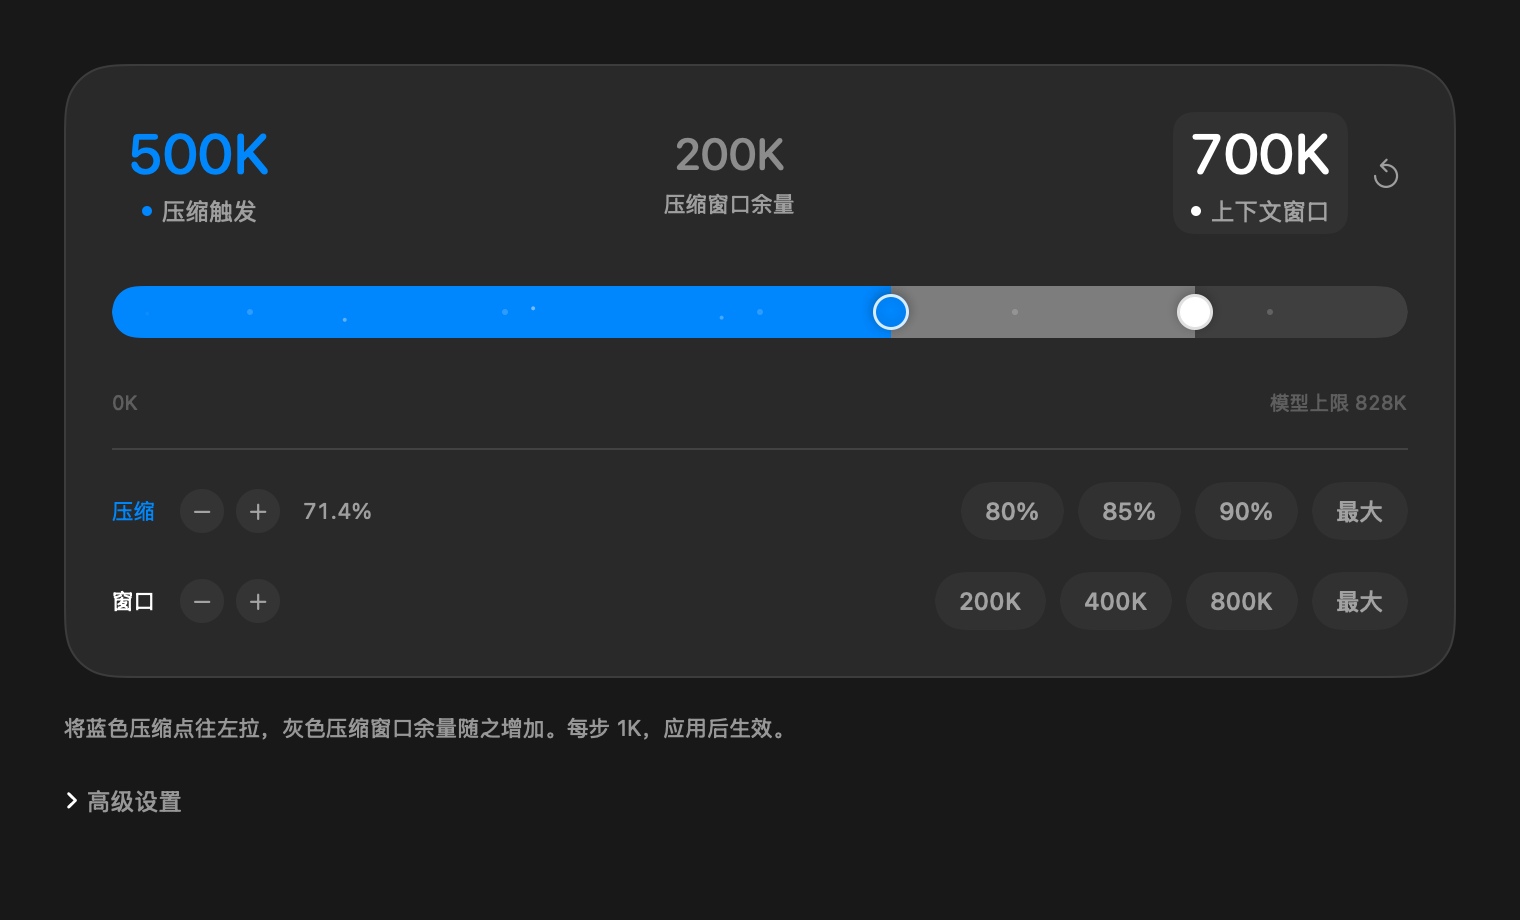
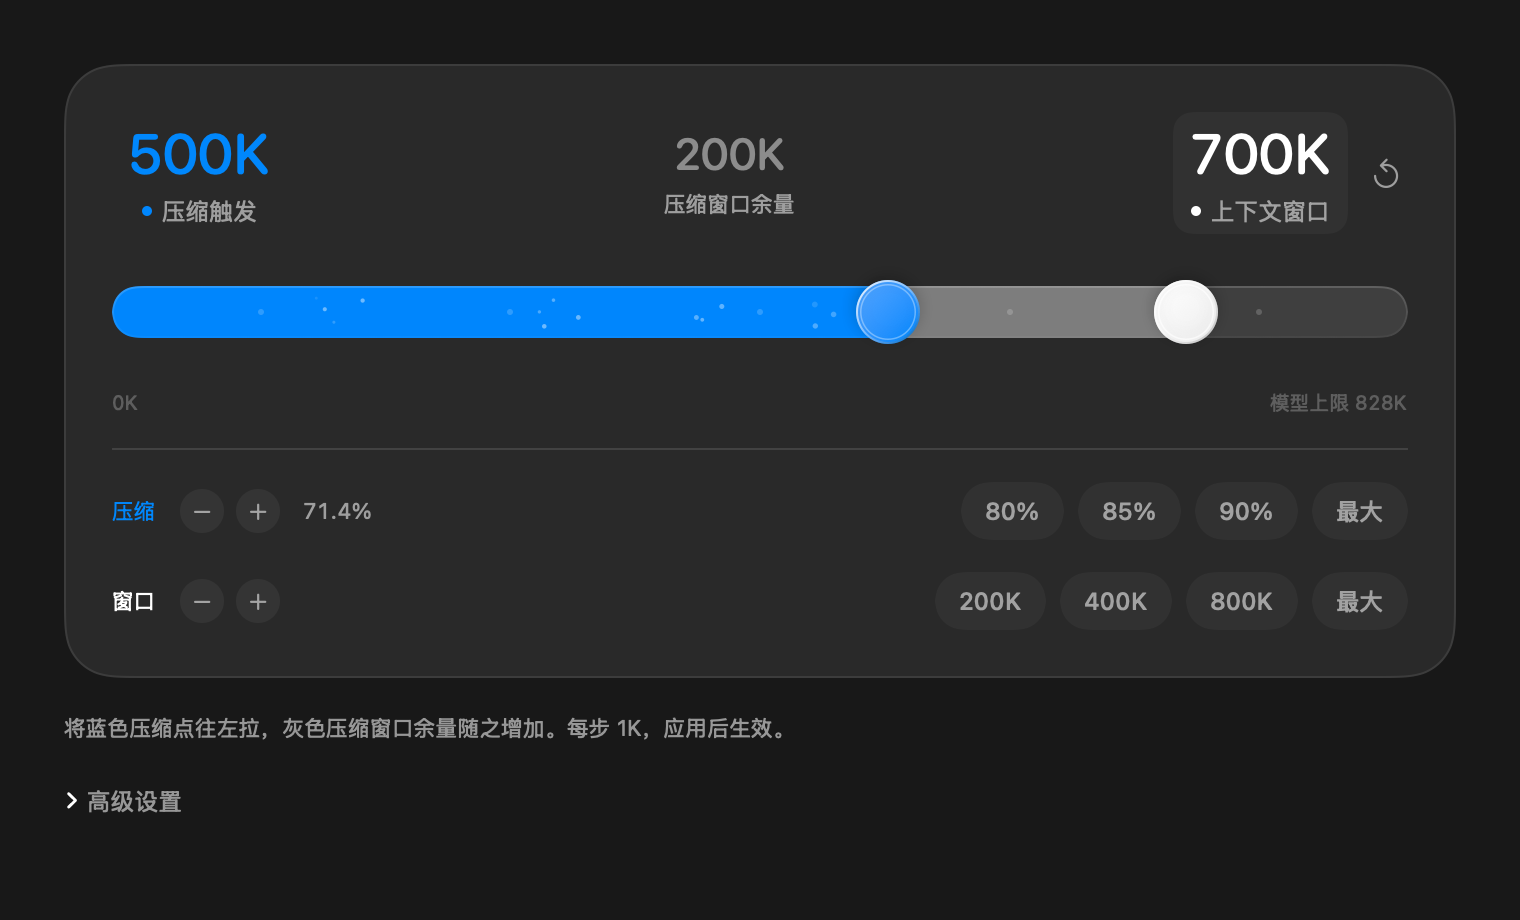
Increase particle density and speed with budget and refine larger slider thumbs

Changed region(s): [[0.7421, 0.3043, 0.8039, 0.3957], [0.5566, 0.3043, 0.6184, 0.3957]]

diff --git a/macos/ContextControl.swift b/macos/ContextControl.swift
@@ -166,6 +166,52 @@ private struct ApplyButtonStyle:ButtonStyle {
 
 private enum BudgetThumb {case compact,window}
 
+/// Integrate motion locally so changing the budget changes speed without
+/// teleporting particles. Additional short streams make the right side denser.
+private struct BudgetFlowParticles:View {
+    let intensity:Double
+    let paused:Bool
+    let reducedMotion:Bool
+    @State private var phase=0.0
+    @State private var speed=0.055
+    var body:some View {
+        Canvas {context,size in
+                guard !reducedMotion else{return}
+                let level=max(0,min(1,intensity))
+                let population=max(2,min(40,size.width/38*(0.55+1.5*level)))
+                for index in 0..<40 {
+                    let visibility=max(0,min(1,population-Double(index)))
+                    guard visibility>0 else{continue}
+                    let seed=(Double(index)*0.61803398875).truncatingRemainder(dividingBy:1)
+                    let start=[0.0,0.25,0.50,0.70][index%4]
+                    let progress=(phase*(0.85+seed*0.3)/(1-start)+seed).truncatingRemainder(dividingBy:1)
+                    let accelerated=(exp(progress*1.25)-1)/(exp(1.25)-1)
+                    let x=(start+(1-start)*accelerated)*size.width
+                    let lane=(Double((index*7)%13)/12-0.5)*size.height*0.58
+                    let y=size.height/2+lane+sin(progress*Double.pi*2+seed*6)*1.5
+                    let diameter=1.4+seed*1.6
+                    let fade=pow(max(0,sin(progress*Double.pi)),0.65)
+                    let opacity=visibility*fade*(0.24+0.32*level)
+                    context.fill(Path(ellipseIn:CGRect(x:x-diameter/2,y:y-diameter/2,width:diameter,height:diameter)),with:.color(.white.opacity(opacity)))
+                }
+            }
+        .onChange(of:intensity,initial:true){_,level in speed=0.055+0.18*max(0,min(1,level))}
+        .task(id:paused){
+            guard !paused else{return}
+            var previousTime=Date.timeIntervalSinceReferenceDate
+            while !Task.isCancelled {
+                do{try await Task.sleep(for:.seconds(1.0/30))}catch{return}
+                guard !Task.isCancelled else{return}
+                let time=Date.timeIntervalSinceReferenceDate
+                phase+=max(0,min(0.1,time-previousTime))*speed
+                previousTime=time
+            }
+        }
+        .allowsHitTesting(false)
+    }
+}
+
+
 /// Both handles share the model-capacity scale. The selected handle stays fixed
 /// during a gesture even when moving the window also moves the linked threshold.
 private struct BudgetRangeSlider:View {
@@ -179,7 +225,7 @@ private struct BudgetRangeSlider:View {
     @FocusState private var focused:Bool
     @State private var active=NSApplication.shared.isActive
     @State private var dragging:BudgetThumb?
-    private let diameter:CGFloat=18
+    private let diameter:CGFloat=32
     var body:some View {
         GeometryReader {geometry in
             let travel=max(1,geometry.size.width-diameter)
@@ -191,21 +237,12 @@ private struct BudgetRangeSlider:View {
                     Rectangle().fill(PanelStyle.blue).frame(width:compactX)
                     Rectangle().fill(PanelStyle.headroom.opacity(0.8)).frame(width:max(0,windowX-compactX)).offset(x:compactX)
                     HStack {ForEach(0..<5){_ in Circle().fill(.white.opacity(0.18)).frame(width:3,height:3).frame(maxWidth:.infinity)}}.padding(.horizontal,diameter/2)
-                    TimelineView(.animation(minimumInterval:1.0/24,paused:reduceMotion || !active || !enabled)){timeline in
-                        Canvas {context,size in
-                            guard !reduceMotion else{return}
-                            let time=timeline.date.timeIntervalSinceReferenceDate
-                            for index in 0..<4 {
-                                let phase=(time/7+Double(index)*0.247).truncatingRemainder(dividingBy:1)
-                                let x=phase*max(1,compactX-8)+4
-                                let y=size.height/2+sin(phase*Double.pi*2+Double(index))*3
-                                context.fill(Path(ellipseIn:CGRect(x:x,y:y,width:2,height:2)),with:.color(.white.opacity(sin(phase*Double.pi)*0.45)))
-                            }
-                        }
-                    }.frame(width:compactX).allowsHitTesting(false)
+                    BudgetFlowParticles(intensity:compact/Double(max(1,maximumWindow)),paused:reduceMotion || !active || !enabled,reducedMotion:reduceMotion)
+                        .frame(width:compactX).clipped()
                 }.frame(height:26).clipShape(Capsule())
-                thumb(.compact,color:PanelStyle.blue).offset(x:compactX-diameter/2)
-                thumb(.window,color:.white).offset(x:windowX-diameter/2)
+                    .overlay(Capsule().strokeBorder(LinearGradient(colors:[.white.opacity(0.17),.white.opacity(0.035)],startPoint:.top,endPoint:.bottom),lineWidth:1).frame(height:26))
+                thumb(.compact).offset(x:compactX-diameter/2).zIndex(selection == .compact ? 2:1)
+                thumb(.window).offset(x:windowX-diameter/2).zIndex(selection == .window ? 2:1)
             }
             .frame(height:34).frame(maxHeight:.infinity).contentShape(Rectangle())
             .gesture(DragGesture(minimumDistance:0).onChanged {event in
@@ -239,10 +276,13 @@ private struct BudgetRangeSlider:View {
         .onReceive(NotificationCenter.default.publisher(for:NSApplication.didResignActiveNotification)){_ in active=false}
         .onAppear{active=NSApplication.shared.isActive}.onDisappear{active=false}
     }
-    private func thumb(_ target:BudgetThumb,color:Color)->some View {
-        Circle().fill(color).overlay(Circle().strokeBorder(target == .compact ? .white.opacity(0.85):.black.opacity(0.12),lineWidth:1.5))
-            .frame(width:diameter,height:diameter).shadow(color:.black.opacity(0.25),radius:3,y:1)
-            .scaleEffect(dragging==target ? 1.15:1)
+    private func thumb(_ target:BudgetThumb)->some View {
+        Circle().fill(LinearGradient(colors:target == .compact ? [Color(red:0.43,green:0.63,blue:1),PanelStyle.blue]:[.white,Color(white:0.93)],startPoint:.topLeading,endPoint:.bottomTrailing))
+            .overlay(Circle().strokeBorder(LinearGradient(colors:[.white.opacity(0.95),.white.opacity(0.35),.black.opacity(0.18)],startPoint:.topLeading,endPoint:.bottomTrailing),lineWidth:1))
+            .overlay(Circle().strokeBorder(.white.opacity(target == .compact ? 0.35:0.65),lineWidth:0.75).padding(2))
+            .frame(width:diameter,height:diameter)
+            .shadow(color:.black.opacity(dragging==target ? 0.30:0.20),radius:dragging==target ? 6:4,y:2)
+            .scaleEffect(dragging==target ? 1.07:1)
     }
     private func adjust(_ delta:Double){
         if selection == .compact{compact=max(1,min(Double(maximumCompact),compact+delta))}

diff --git a/docs/UI.md b/docs/UI.md
@@ -6,11 +6,11 @@
 
 图片由真实原生控件使用合成预算渲染，仅用于展示样式，不代表当前聊天的运行时状态。
 
-轨道加粗至 26 点。取消轨道外围的蓝色焦点框和系统焦点光晕，保留键盘聚焦与调节；选中的目标由上方数值的轻微底色标识。
+轨道高度为 26 点，带细微的明暗渐变边缘。取消轨道外围的蓝色焦点框和系统焦点光晕，保留键盘聚焦与调节；选中的目标由上方数值的轻微底色标识。
 
 ## 同一条轨道，两个滑块
 
-- 蓝色滑块是压缩触发点，白色滑块是上下文窗口上限，直径均为 18 点。
+- 蓝色滑块是压缩触发点，白色滑块是上下文窗口上限，直径均为 32 点，带渐变底色、内外细高光和柔和投影。
 - 两点共用模型容量刻度，中间数值标为“压缩窗口余量”。中间灰色段表示窗口上限与压缩阈值的差；向左拖动蓝色点会增加这段余量。
 - 灰色余量不是“压缩后保留量”，也不是高级设置中的“下一轮预留”；它直接等于窗口减去压缩阈值。
 - 窗口右侧的深灰轨道表示尚未使用的可设置容量，最右侧标出模型上限。
@@ -23,7 +23,9 @@
 
 ## 动效
 
-蓝色区域中的少量光点以约 7 秒的周期缓慢移动，数值和滑块在非拖动变化时有短暂过渡。只有轨道区域按最高 24 帧/秒刷新；失去应用焦点或禁用控件时暂停光点。系统开启“减少动态效果”时，停止光点和数值/位置过渡。
+蓝色压缩点在模型刻度上越靠右，光点单位长度密度和流速越高；右侧增加较短的粒子流，使末端更密集。每个光点沿轨道向右加速，边缘淡入淡出。粒子总数最多 40，粒子数量变化以透明度过渡。运动相位按实际经过时间累加，调整预算会改变速度，不会重设粒子位置。
+
+仅粒子控件按最高约 30 帧/秒刷新；失去应用焦点、禁用控件或开启“减少动态效果”时停止更新。数值和滑块在非拖动变化时保留短暂过渡，减少动态效果时关闭。滑块靠得很近时，当前选中的滑块显示在上层。
 
 ## 验证范围
 
